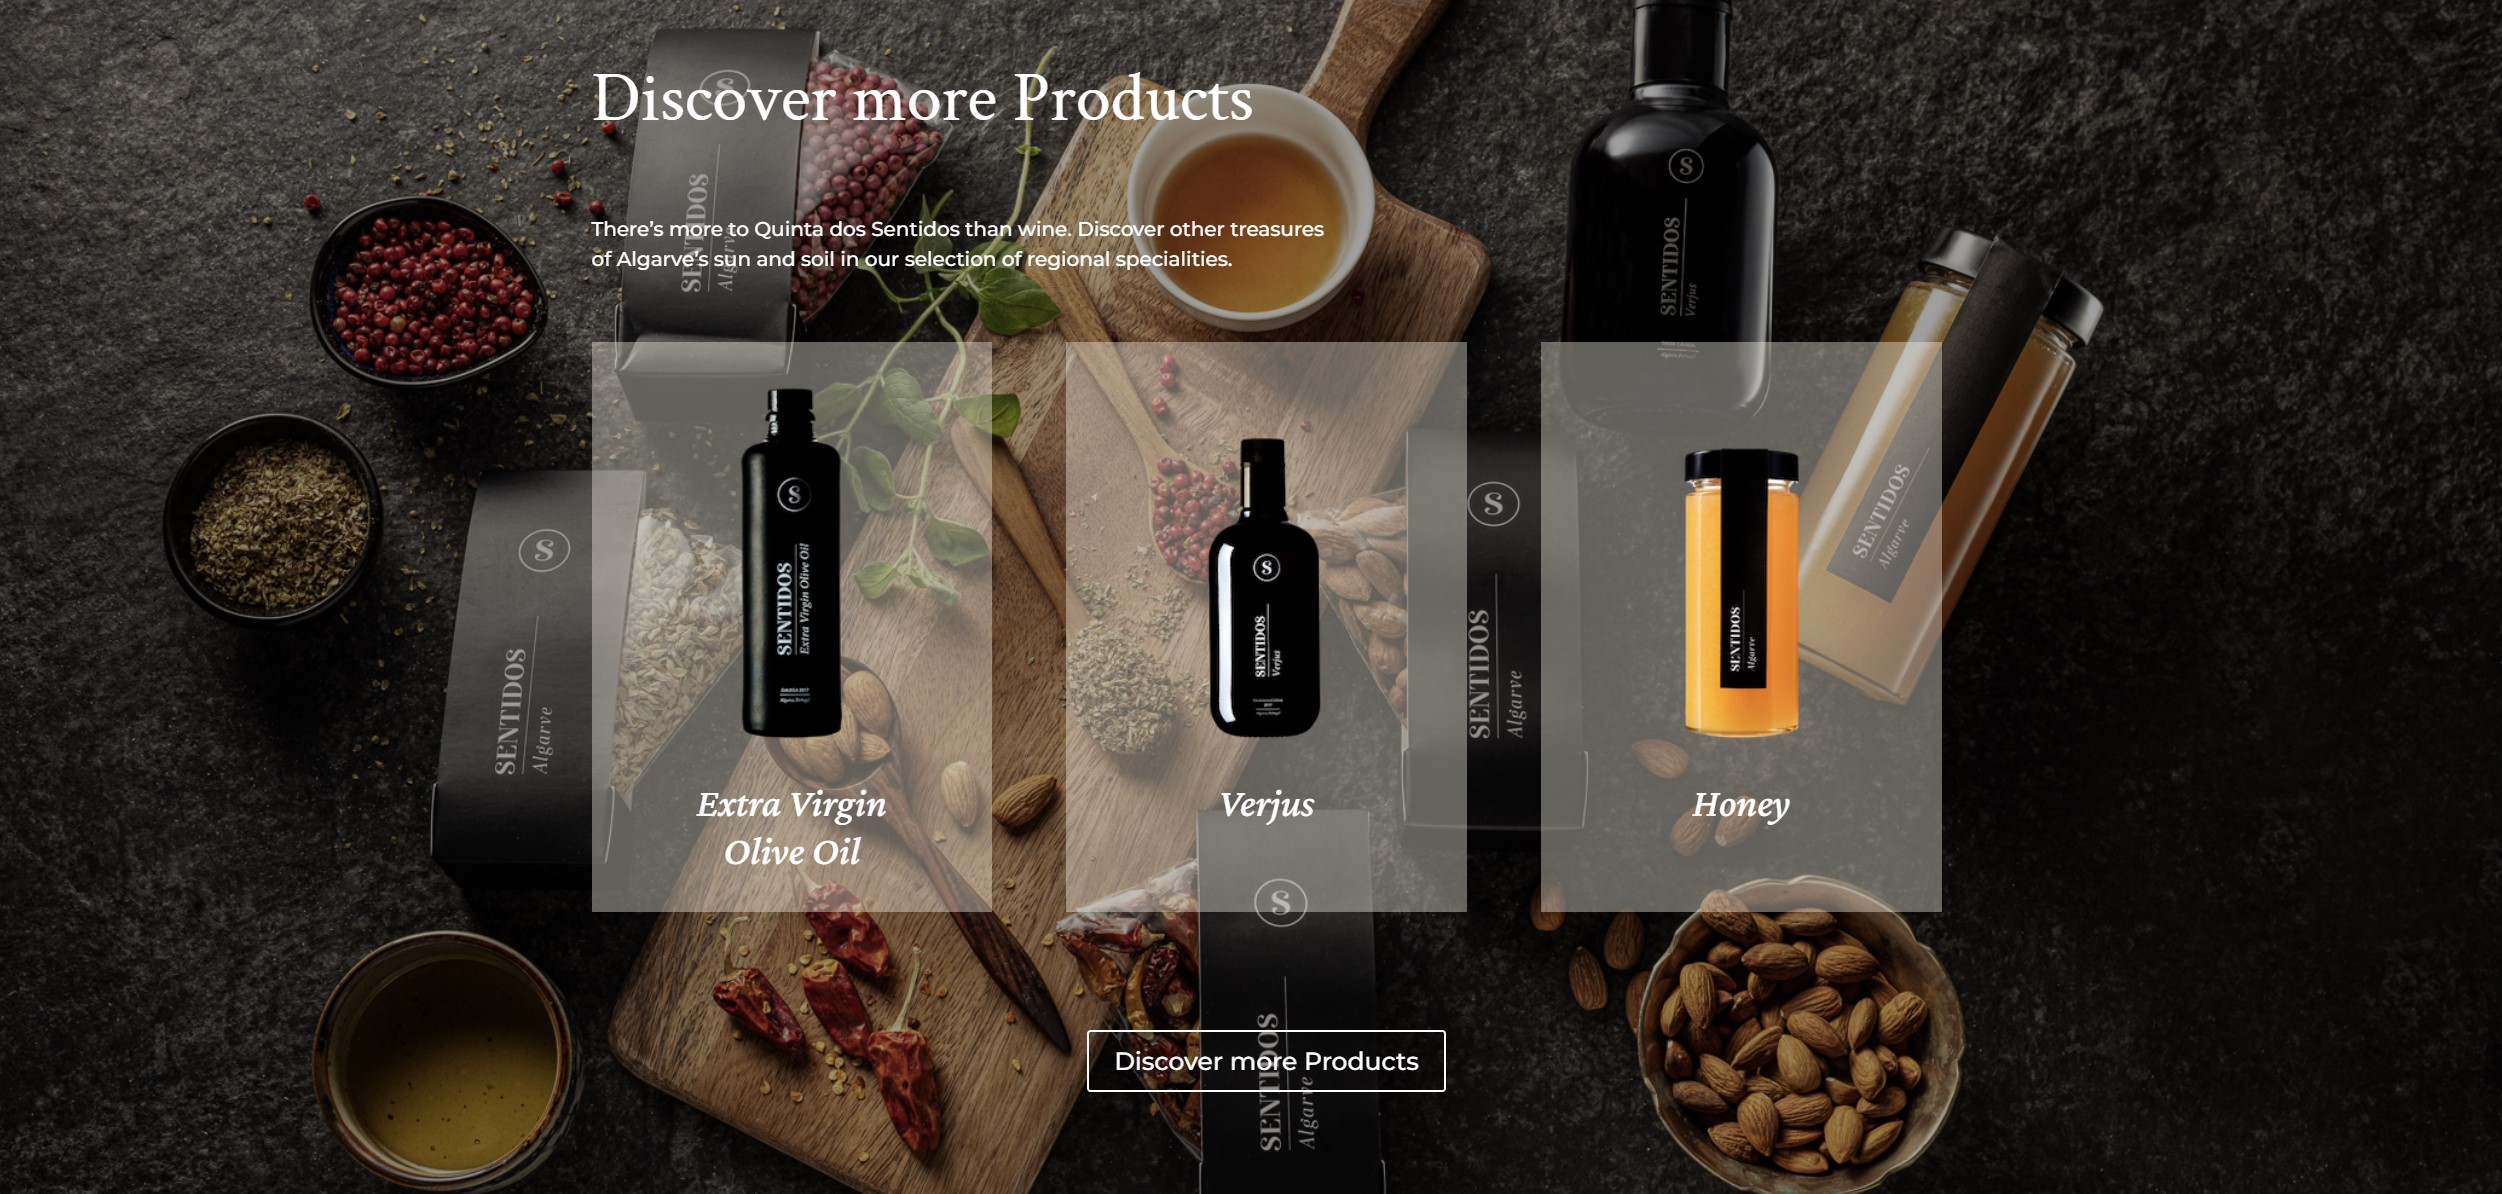
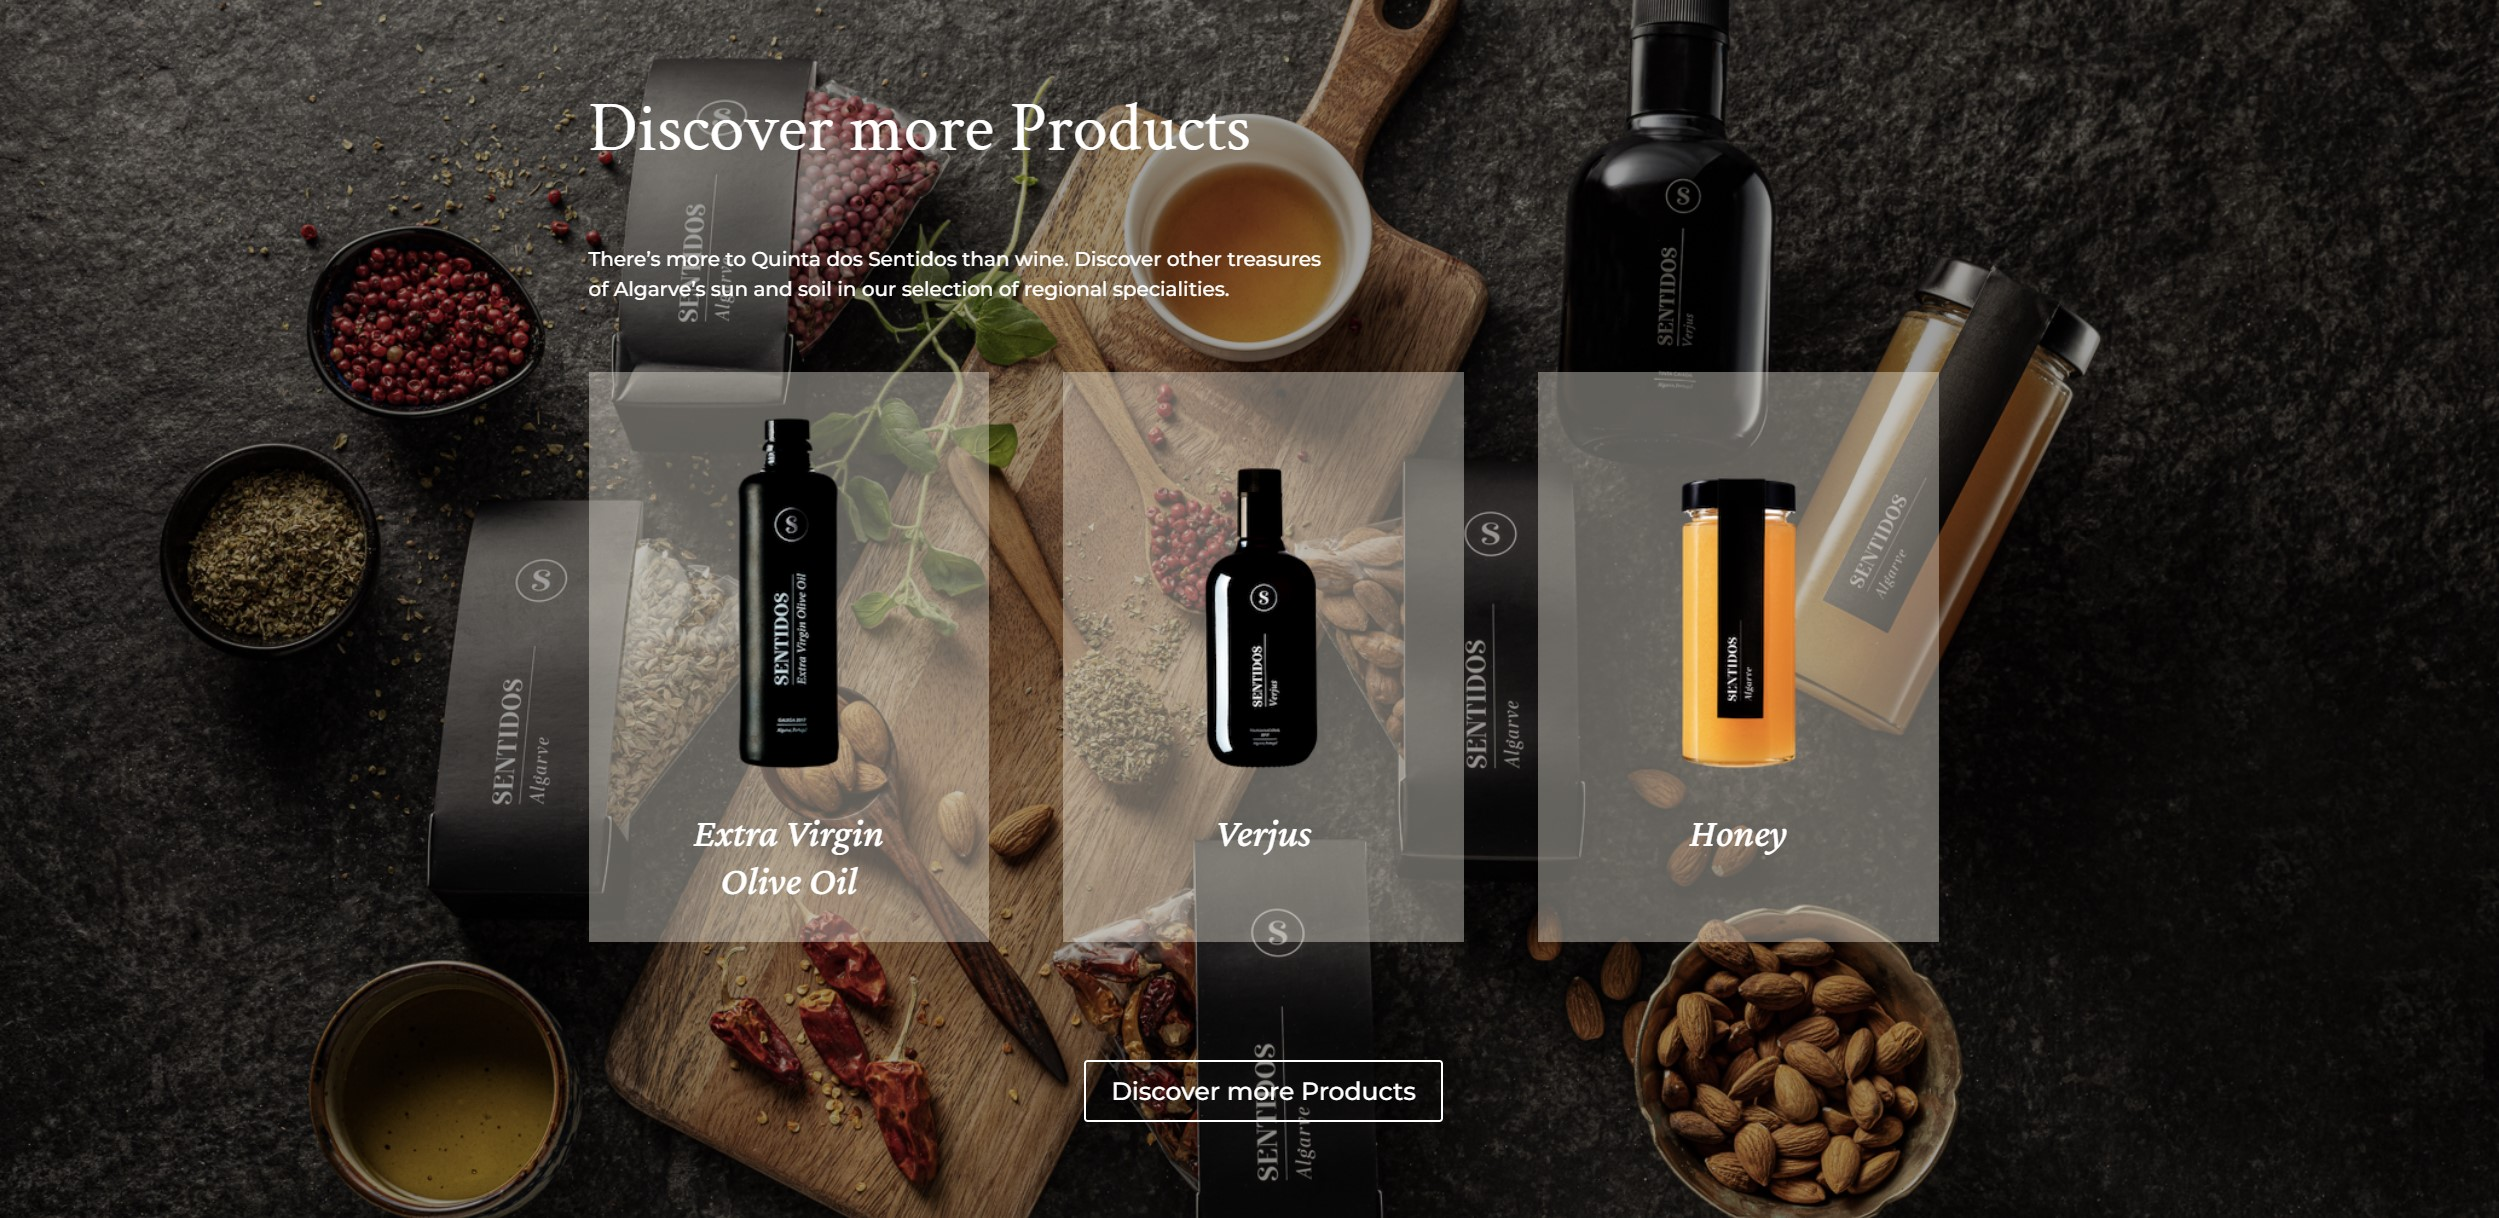
Small positioning adjusutments

diff --git a/assets/css/style.css b/assets/css/style.css
@@ -132,9 +132,9 @@ font-size: 2.8vh;
 
 #About_text {
 grid-area: About_text;
-font-size: 3vh;
+font-size: 2.6vh;
 margin-top: 5px;
-padding: 30px;
+padding: 40px;
 
 }
 
@@ -162,7 +162,7 @@ padding: 30px;
   margin-top: 20px;
 width: 100%;
 height: 100%;
-border: solid 6px var(--DarkColor);
+border: solid 5px var(--DarkColor);
 object-fit: cover;
 }
 
